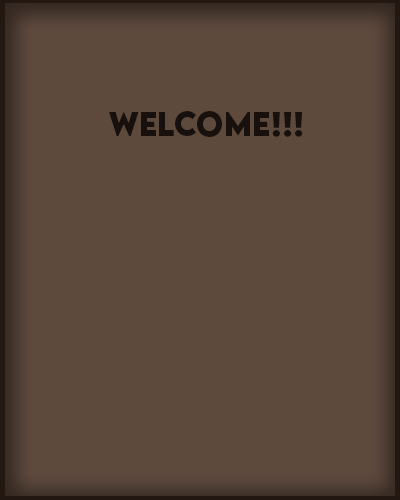
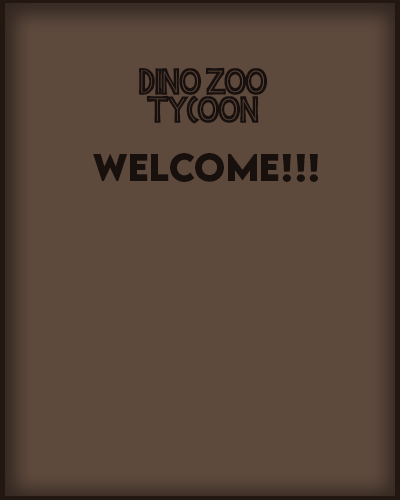
:sparkles: feat: Add Watermark & New Welcome Bg

Changed region(s): [[0.24, 0.12, 0.81, 0.39]]

diff --git a/src/views/InitialPanel.java b/src/views/InitialPanel.java
@@ -20,6 +20,11 @@ public class InitialPanel extends JFrame {
         ImageBackgroundPanel backgroundPanel = new ImageBackgroundPanel("src/resources/backgrounds/small-bg-welcome.png");
         backgroundPanel.setLayout(null);
 
+        ImageIcon imageIcon = new ImageIcon("src/resources/utils/watermark.png");
+        JLabel imageLabel = new JLabel(imageIcon);
+        imageLabel.setBounds(306, 450, imageIcon.getIconWidth(), imageIcon.getIconHeight());
+        backgroundPanel.add(imageLabel);
+
         CustomButton closeButton = new CustomButton(
                 "src/resources/buttons/closeButtonSmall.png",
                 335,
@@ -46,7 +51,7 @@ public class InitialPanel extends JFrame {
         CustomButton loginButton = new CustomButton(
                 "src/resources/buttons/loginButton.png",
                 116,
-                190,
+                210,
                 165,
                 62,
                 e -> {
@@ -59,7 +64,7 @@ public class InitialPanel extends JFrame {
         CustomButton registerButton = new CustomButton(
                 "src/resources/buttons/registerButton.png",
                 116,
-                260,
+                280,
                 165,
                 62,
                 e -> {

diff --git a/src/views/AddDinoPanel.java b/src/views/AddDinoPanel.java
@@ -24,6 +24,11 @@ public class AddDinoPanel extends JFrame {
         ImageBackgroundPanel backgroundPanel = new ImageBackgroundPanel("src/resources/backgrounds/small-bg-add.png");
         backgroundPanel.setLayout(null);
 
+        ImageIcon imageIcon = new ImageIcon("src/resources/utils/watermark.png");
+        JLabel imageLabel = new JLabel(imageIcon);
+        imageLabel.setBounds(306, 450, imageIcon.getIconWidth(), imageIcon.getIconHeight());
+        backgroundPanel.add(imageLabel);
+
         backgroundPanel.addMouseListener(new MouseAdapter() {
             public void mousePressed(MouseEvent e) {
                 mouseX = e.getX();

diff --git a/src/views/Register.java b/src/views/Register.java
@@ -22,6 +22,11 @@ public class Register extends JFrame {
         ImageBackgroundPanel backgroundPanel = new ImageBackgroundPanel("src/resources/backgrounds/small-bg-register.png");
         backgroundPanel.setLayout(null);
 
+        ImageIcon imageIcon = new ImageIcon("src/resources/utils/watermark.png");
+        JLabel imageLabel = new JLabel(imageIcon);
+        imageLabel.setBounds(306, 450, imageIcon.getIconWidth(), imageIcon.getIconHeight());
+        backgroundPanel.add(imageLabel);
+
         CustomButton closeButton = new CustomButton(
                 "src/resources/buttons/closeButtonSmall.png",
                 335,
